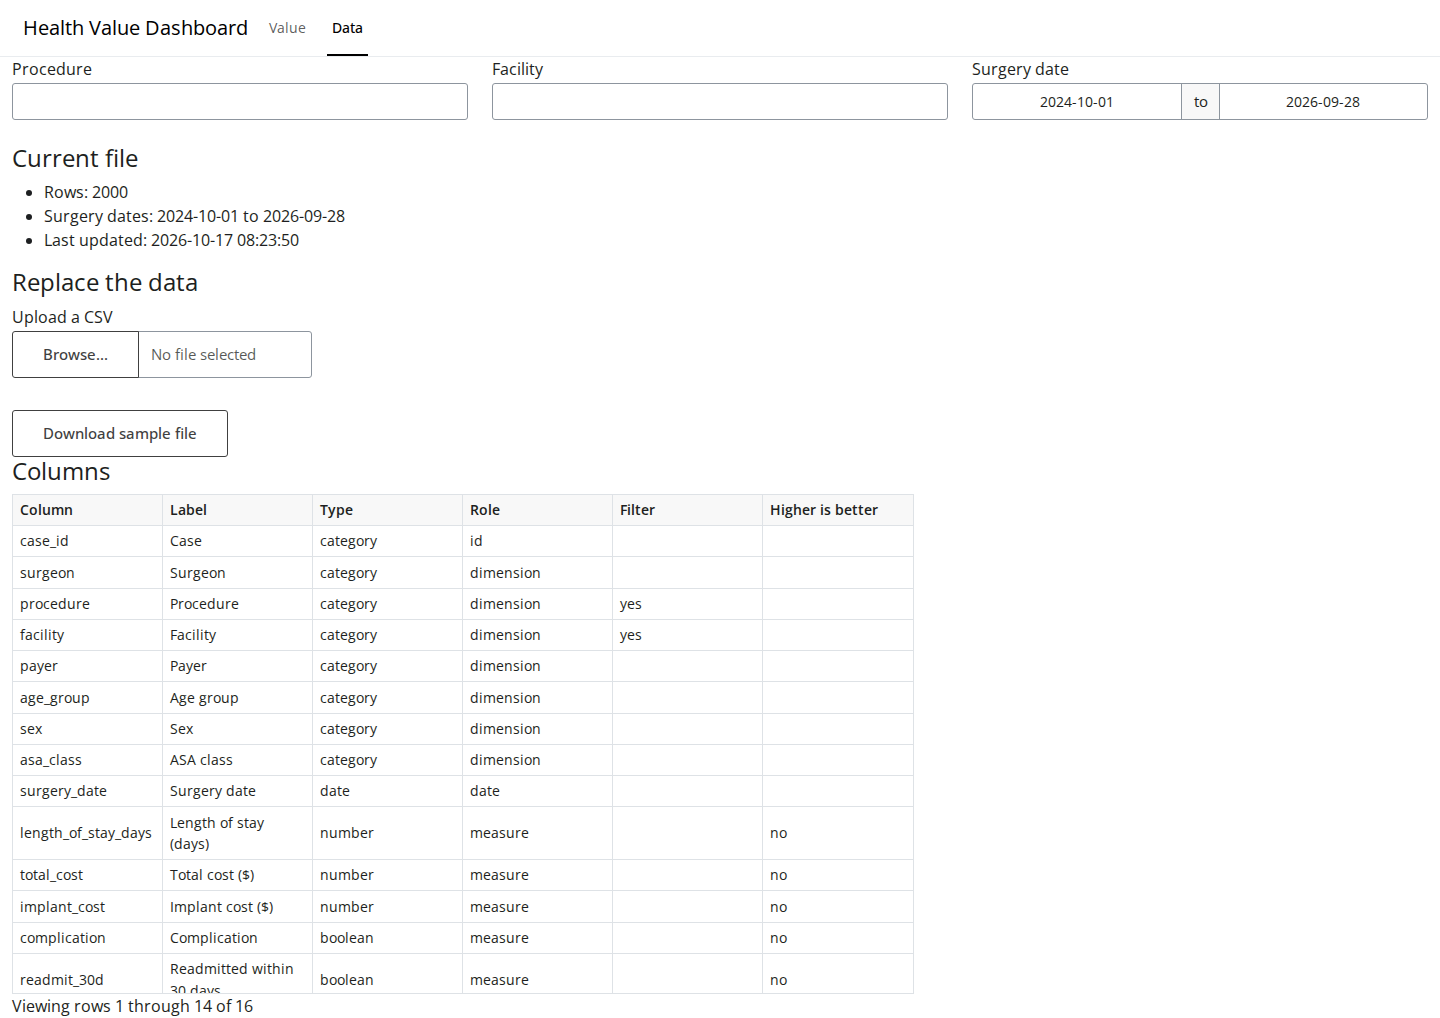
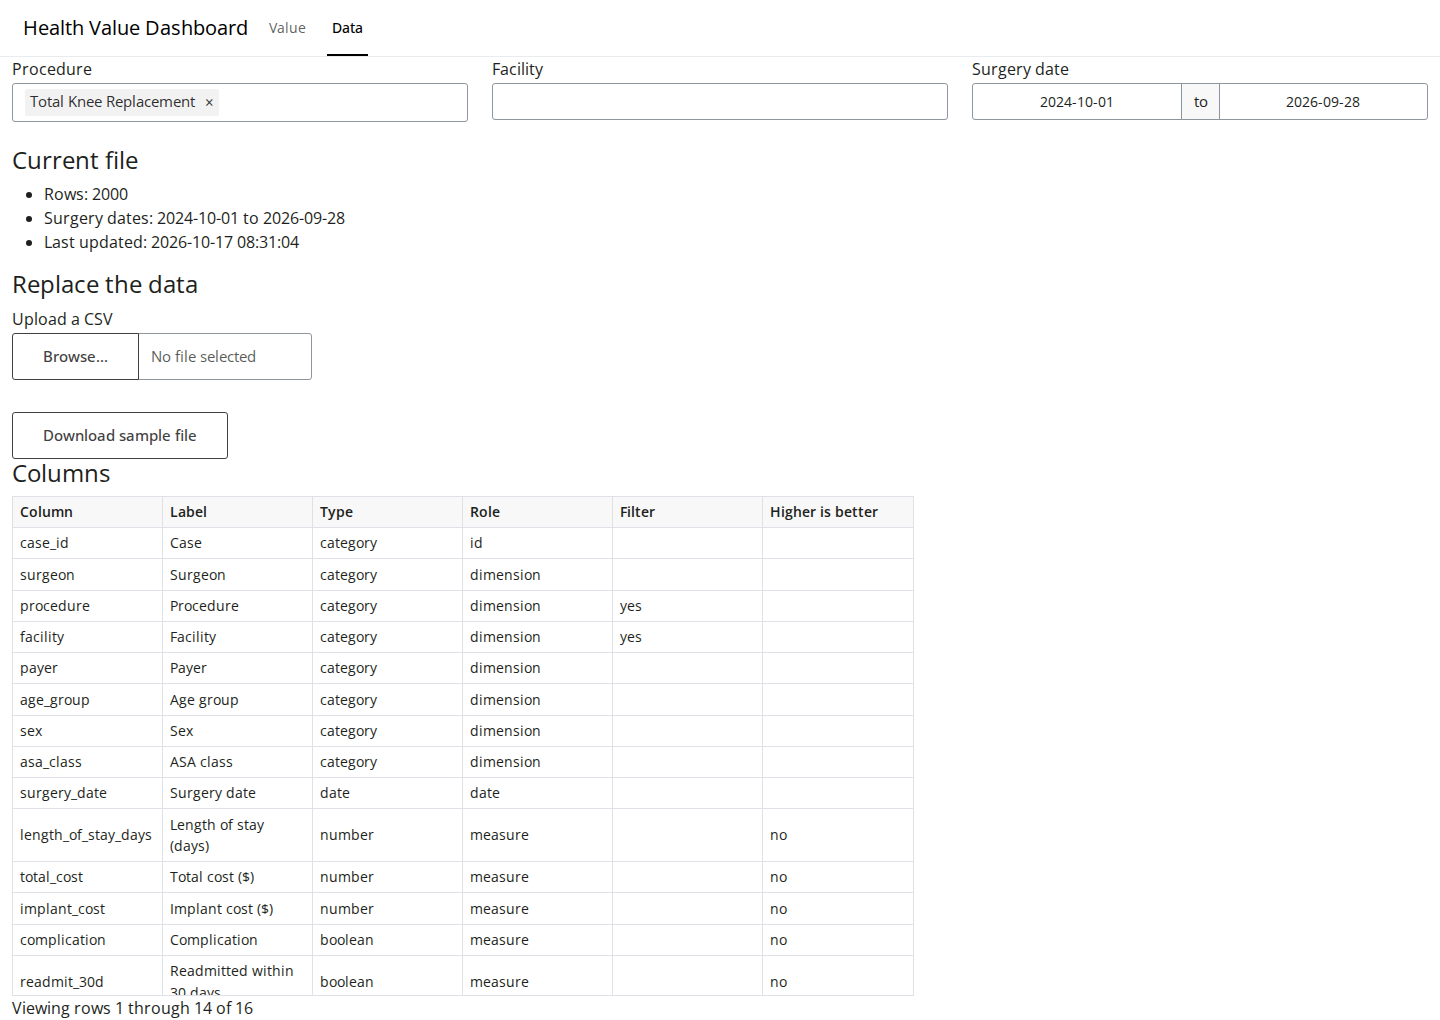
Add a filtered Value tab screenshot
The screenshots script now also filters to total knee replacements and
switches the rate to complications, then saves filtered.png once the
numbers, map, and table have all updated. The README shows it.

diff --git a/scripts/screenshots.py b/scripts/screenshots.py
@@ -7,7 +7,9 @@ import time
 import urllib.request
 from pathlib import Path
 
-from playwright.sync_api import sync_playwright
+from playwright.sync_api import Page, sync_playwright
+
+from app.schema import PROCEDURE
 
 ROOT = Path(__file__).resolve().parent.parent
 SAMPLE = ROOT / "data" / "sample.csv"
@@ -15,6 +17,8 @@ OUTPUT = ROOT / "docs" / "screenshots"
 PORT = 8765
 URL = f"http://127.0.0.1:{PORT}"
 TIMEOUT = 30
+FILTER_PROCEDURE = "Total Knee Replacement"
+FILTER_RATE = "complication"
 
 
 def wait_for_server(url: str, timeout: float) -> None:
@@ -28,6 +32,25 @@ def wait_for_server(url: str, timeout: float) -> None:
     raise TimeoutError(f"waiting for {url} timed out after {timeout} s")
 
 
+def filter_value_tab(page: Page) -> None:
+    before = page.locator("#value-cases").inner_text()
+    page.evaluate(
+        "([id, value]) => document.getElementById(id).selectize.setValue([value])",
+        [PROCEDURE, FILTER_PROCEDURE],
+    )
+    page.wait_for_function(
+        "([id, text]) => document.getElementById(id).innerText !== text",
+        arg=["value-cases", before],
+        timeout=TIMEOUT * 1000,
+    )
+    page.select_option("#value-rate", FILTER_RATE)
+    label = page.locator("#value-rate option:checked").inner_text()
+    page.locator("#value-rate_label").filter(has_text=label).wait_for(timeout=TIMEOUT * 1000)
+    page.locator("#value-table thead").filter(has_text=label).wait_for(timeout=TIMEOUT * 1000)
+    page.wait_for_selector("#value-chart .js-plotly-plot .scatterlayer", timeout=TIMEOUT * 1000)
+    page.wait_for_load_state("networkidle")
+
+
 def capture(url: str, output: Path) -> None:
     output.mkdir(parents=True, exist_ok=True)
     with sync_playwright() as playwright:
@@ -37,6 +60,8 @@ def capture(url: str, output: Path) -> None:
         page.wait_for_selector(".js-plotly-plot .scatterlayer", timeout=TIMEOUT * 1000)
         page.wait_for_selector("#value-table tbody tr", timeout=TIMEOUT * 1000)
         page.screenshot(path=output / "value.png", full_page=True)
+        filter_value_tab(page)
+        page.screenshot(path=output / "filtered.png", full_page=True)
         page.get_by_role("tab", name="Data").click()
         page.wait_for_selector("#data-current li", timeout=TIMEOUT * 1000)
         page.wait_for_selector("#data-schema tbody tr", timeout=TIMEOUT * 1000)

diff --git a/README.md b/README.md
@@ -16,6 +16,11 @@ The Value tab shows headline numbers, a cost versus function gain value map, and
 
 ![Value tab](docs/screenshots/value.png)
 
+The filter bar narrows every number, the map, and the table. The rate measure picks which rate the table and
+the last headline box show. Here the cases are filtered to total knee replacements, and the rate is complications.
+
+![Value tab filtered to total knee replacements](docs/screenshots/filtered.png)
+
 The Data tab shows the current file, lets you upload a replacement CSV, and lists the expected columns.
 
 ![Data tab](docs/screenshots/data.png)
